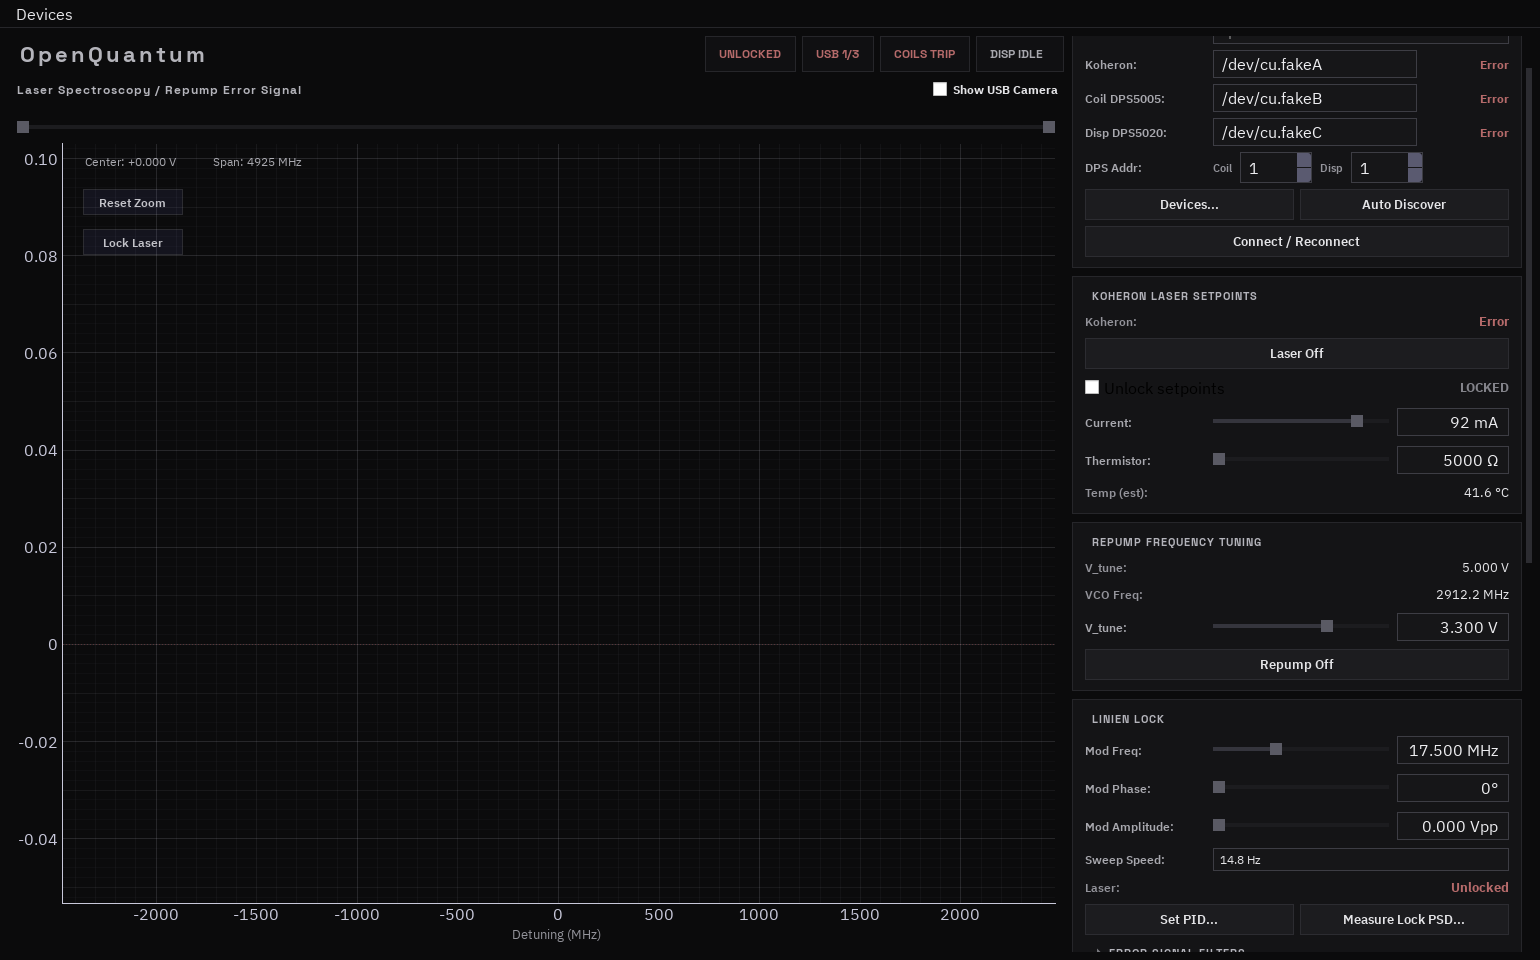
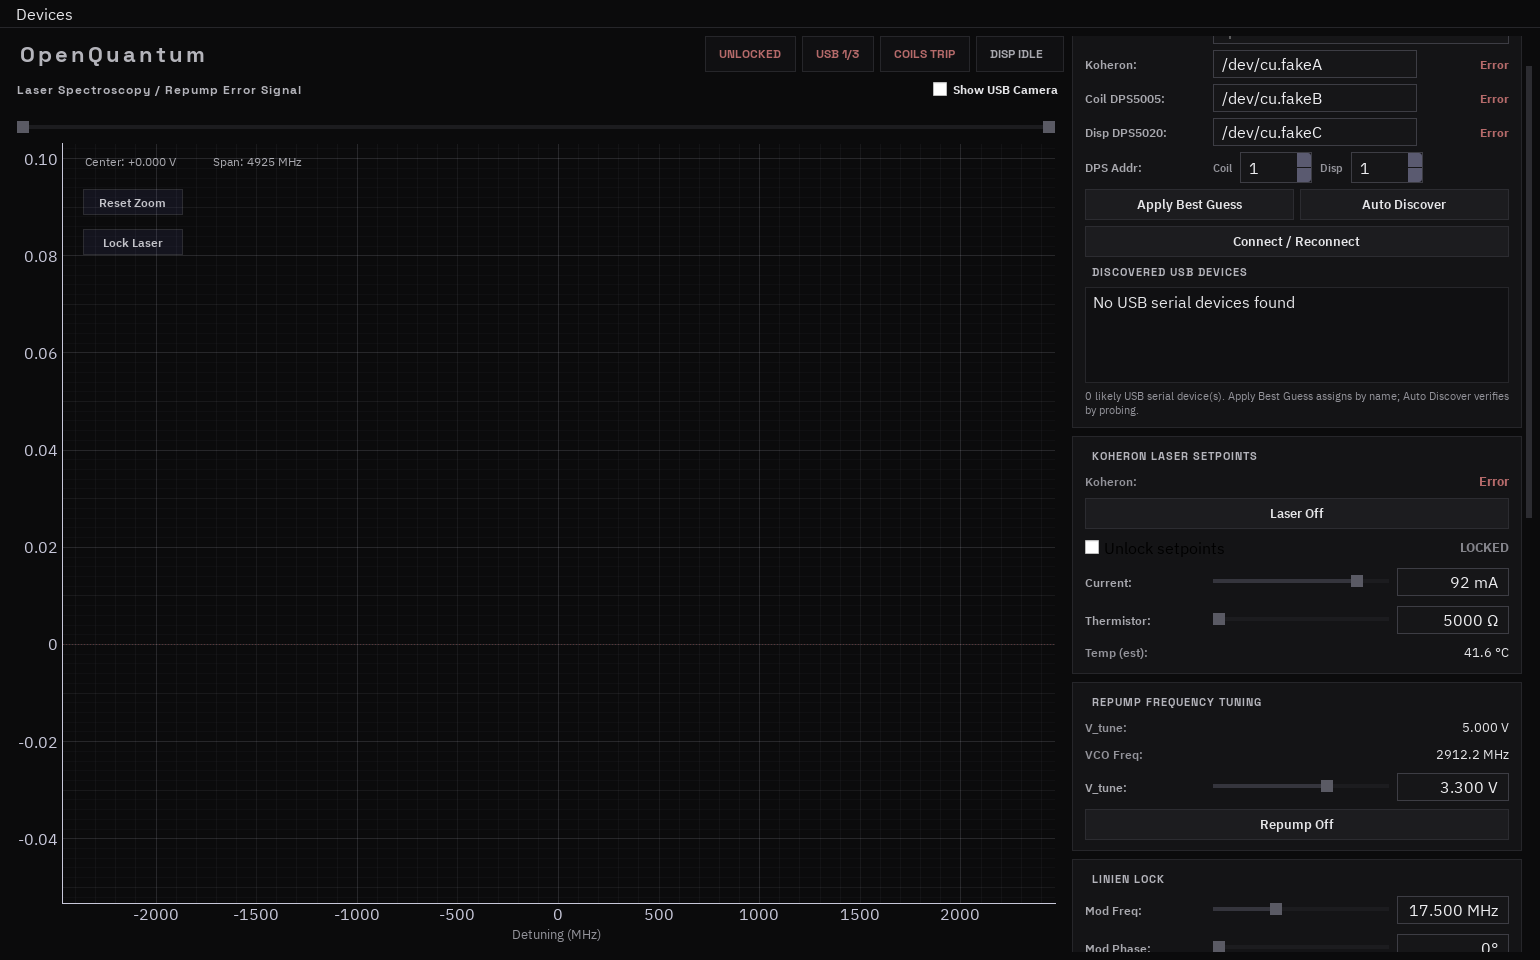
Replace the device config dialog with an inline devices panel
The ports were already inline in the Device Connections card, so the
dialog only added discovery on top of a duplicate set of fields. The
discovered-port list and best-guess assignment move into that card and
the dialog is deleted (117 lines).

The startup pop-up on failed auto-detection is gone too. The card already
expands itself and marks which device is missing, which is the same
information without interrupting.

The menu entry now reveals the card instead of opening a dialog.
smoke_ui.py stubs discover_serial_ports so the panel does not read this
machine's actual ports.

diff --git a/mot_control.py b/mot_control.py
@@ -638,123 +638,6 @@ class CameraViewWidget(QtWidgets.QWidget):
         self.stack.setCurrentWidget(self.message_label)
 
 
-class DeviceConfigDialog(QtWidgets.QDialog):
-    """Manual device config with best-effort USB discovery."""
-
-    def __init__(self, parent):
-        super().__init__(parent)
-        self.setWindowTitle("Device Configuration")
-        self.resize(760, 560)
-        self._parent = parent
-
-        root = QtWidgets.QVBoxLayout(self)
-        root.setSpacing(10)
-
-        splitter = QtWidgets.QSplitter(QtCore.Qt.Horizontal)
-        root.addWidget(splitter, stretch=1)
-
-        form_box = QtWidgets.QWidget()
-        form = QtWidgets.QFormLayout(form_box)
-        form.setLabelAlignment(QtCore.Qt.AlignRight | QtCore.Qt.AlignVCenter)
-        form.setFormAlignment(QtCore.Qt.AlignTop)
-        form.setHorizontalSpacing(12)
-        form.setVerticalSpacing(8)
-
-        self.rp_edit = QtWidgets.QLineEdit(parent.rp_edit.text())
-        self.laser_edit = QtWidgets.QLineEdit(parent.laser_edit.text())
-        self.mot_coil_edit = QtWidgets.QLineEdit(parent.mot_coil_port_edit.text())
-        self.dispenser_edit = QtWidgets.QLineEdit(parent.dispenser_port_edit.text())
-
-        for edit in (
-            self.rp_edit,
-            self.laser_edit,
-            self.mot_coil_edit,
-            self.dispenser_edit,
-        ):
-            edit.setMinimumWidth(250)
-
-        form.addRow("Linien RP:", self.rp_edit)
-        form.addRow("Koheron:", self.laser_edit)
-        form.addRow("MOT Coil DPS5005:", self.mot_coil_edit)
-        form.addRow("Dispenser DPS5020:", self.dispenser_edit)
-
-        splitter.addWidget(form_box)
-
-        discovered_box = QtWidgets.QWidget()
-        discovered_layout = QtWidgets.QVBoxLayout(discovered_box)
-        discovered_layout.setContentsMargins(0, 0, 0, 0)
-        discovered_layout.addWidget(make_section_title("Discovered USB Devices"))
-        self.discovered_list = QtWidgets.QListWidget()
-        self.discovered_list.setStyleSheet(
-            "QListWidget { background: #101012; color: #e4e4e7;"
-            "border: 1px solid #26262a; border-radius: 0px; }"
-            "QListWidget::item { padding: 4px; }"
-        )
-        discovered_layout.addWidget(self.discovered_list, stretch=1)
-        splitter.addWidget(discovered_box)
-        splitter.setSizes([430, 330])
-
-        self.hint_label = QtWidgets.QLabel("")
-        self.hint_label.setWordWrap(True)
-        self.hint_label.setStyleSheet("color: #a8a8ae; border: none;")
-        root.addWidget(self.hint_label)
-
-        button_row = QtWidgets.QHBoxLayout()
-        self.refresh_btn = QtWidgets.QPushButton("Refresh")
-        self.refresh_btn.clicked.connect(self.refresh_discovery)
-        self.best_guess_btn = QtWidgets.QPushButton("Apply Best Guess")
-        self.best_guess_btn.clicked.connect(lambda: self.apply_best_guess(force=True))
-        button_row.addWidget(self.refresh_btn)
-        button_row.addWidget(self.best_guess_btn)
-        button_row.addStretch()
-        self.cancel_btn = QtWidgets.QPushButton("Cancel")
-        self.cancel_btn.clicked.connect(self.reject)
-        self.apply_btn = QtWidgets.QPushButton("Apply")
-        self.apply_btn.clicked.connect(self.accept)
-        button_row.addWidget(self.cancel_btn)
-        button_row.addWidget(self.apply_btn)
-        root.addLayout(button_row)
-
-        self.refresh_discovery()
-
-    def values(self):
-        return {
-            "rp": self.rp_edit.text().strip(),
-            "laser": self.laser_edit.text().strip(),
-            "mot_coil": self.mot_coil_edit.text().strip(),
-            "dispenser": self.dispenser_edit.text().strip(),
-        }
-
-    def refresh_discovery(self):
-        self._serial_ports = discover_serial_ports()
-        self.discovered_list.clear()
-        for port in self._serial_ports:
-            self.discovered_list.addItem(_serial_port_label(port))
-        if not self._serial_ports:
-            self.discovered_list.addItem("No USB serial devices found")
-        self.apply_best_guess(force=False)
-
-    def apply_best_guess(self, force=False):
-        current = {
-            "laser": "" if force else self.laser_edit.text().strip(),
-            "mot_coil": "" if force else self.mot_coil_edit.text().strip(),
-            "dispenser": "" if force else self.dispenser_edit.text().strip(),
-        }
-        guesses = infer_serial_assignments(self._serial_ports, current)
-        if (force or not self.laser_edit.text().strip()) and guesses.get("laser"):
-            self.laser_edit.setText(guesses["laser"])
-        if (force or not self.mot_coil_edit.text().strip()) and guesses.get("mot_coil"):
-            self.mot_coil_edit.setText(guesses["mot_coil"])
-        if (force or not self.dispenser_edit.text().strip()) and guesses.get("dispenser"):
-            self.dispenser_edit.setText(guesses["dispenser"])
-
-        likely_count = len([port for port in self._serial_ports if _is_likely_usb_serial(port)])
-        self.hint_label.setText(
-            f"Found {likely_count} likely USB serial device(s). "
-            "Best guesses fill empty fields only unless you press Apply Best Guess."
-        )
-
-
 class DispenserOverrideDialog(QtWidgets.QDialog):
     """Change the dispenser fire current/duration (confirmed afterwards)."""
 
@@ -1170,9 +1053,11 @@ class OpenQuantumControlsWindow(QtWidgets.QMainWindow):
         """)
         devices_menu = self.menuBar().addMenu("Devices")
 
-        configure_action = QtGui.QAction("Configure Devices...", self)
-        configure_action.triggered.connect(self._open_device_config_dialog)
-        devices_menu.addAction(configure_action)
+        show_devices_action = QtGui.QAction("Show Device Connections", self)
+        show_devices_action.triggered.connect(
+            lambda: self.usb_card.set_expanded(True)
+        )
+        devices_menu.addAction(show_devices_action)
 
         discover_action = QtGui.QAction("Auto Discover USB Devices", self)
         discover_action.triggered.connect(lambda: self._run_usb_probe(startup=False))
@@ -1531,13 +1416,13 @@ class OpenQuantumControlsWindow(QtWidgets.QMainWindow):
 
         button_row = QtWidgets.QHBoxLayout()
         button_row.setSpacing(6)
-        self.device_dialog_btn = QtWidgets.QPushButton("Devices...")
-        self.device_dialog_btn.setCursor(QtCore.Qt.PointingHandCursor)
-        self.device_dialog_btn.clicked.connect(self._open_device_config_dialog)
+        self.best_guess_btn = QtWidgets.QPushButton("Apply Best Guess")
+        self.best_guess_btn.setCursor(QtCore.Qt.PointingHandCursor)
+        self.best_guess_btn.clicked.connect(self._apply_best_guess)
         self._tip(
-            "Open the device configuration dialog (discovered ports,\n"
-            "manual entry).",
-            self.device_dialog_btn,
+            "Assign the discovered ports to devices by name. Overwrites the\n"
+            "fields above; Auto Discover verifies by probing instead.",
+            self.best_guess_btn,
         )
         self.auto_discover_btn = QtWidgets.QPushButton("Auto Discover")
         self.auto_discover_btn.setCursor(QtCore.Qt.PointingHandCursor)
@@ -1550,7 +1435,7 @@ class OpenQuantumControlsWindow(QtWidgets.QMainWindow):
             "workers).",
             self.auto_discover_btn,
         )
-        button_row.addWidget(self.device_dialog_btn)
+        button_row.addWidget(self.best_guess_btn)
         button_row.addWidget(self.auto_discover_btn)
         layout.addLayout(button_row)
 
@@ -1563,7 +1448,57 @@ class OpenQuantumControlsWindow(QtWidgets.QMainWindow):
             self.connect_btn,
         )
         layout.addWidget(self.connect_btn)
+
+        # Discovery lives here rather than in a pop-up: the ports it
+        # informs are the fields directly above it.
+        layout.addWidget(make_section_title("Discovered USB Devices"))
+        self.discovered_list = QtWidgets.QListWidget()
+        self.discovered_list.setFixedHeight(96)
+        self.discovered_list.setStyleSheet(
+            "QListWidget { background: #101012; color: #e4e4e7;"
+            "border: 1px solid #26262a; border-radius: 0px; }"
+            "QListWidget::item { padding: 4px; }"
+        )
+        layout.addWidget(self.discovered_list)
+        self.discovery_hint = QtWidgets.QLabel("")
+        self.discovery_hint.setWordWrap(True)
+        self.discovery_hint.setStyleSheet(
+            "color: #93939a; font-size: 11px; border: none;"
+        )
+        layout.addWidget(self.discovery_hint)
+        self._refresh_discovery()
+
         parent.addWidget(card)
+
+    def _refresh_discovery(self):
+        """Repopulate the discovered-port list. Read-only: enumeration
+        only, no port is opened."""
+        self._serial_ports = discover_serial_ports()
+        self.discovered_list.clear()
+        for port in self._serial_ports:
+            self.discovered_list.addItem(_serial_port_label(port))
+        if not self._serial_ports:
+            self.discovered_list.addItem("No USB serial devices found")
+        likely = len(
+            [p for p in self._serial_ports if _is_likely_usb_serial(p)]
+        )
+        self.discovery_hint.setText(
+            f"{likely} likely USB serial device(s). "
+            "Apply Best Guess assigns by name; Auto Discover verifies by probing."
+        )
+
+    def _apply_best_guess(self):
+        self._refresh_discovery()
+        guesses = infer_serial_assignments(self._serial_ports, {})
+        for key, edit in (
+            ("laser", self.laser_edit),
+            ("mot_coil", self.mot_coil_port_edit),
+            ("dispenser", self.dispenser_port_edit),
+        ):
+            if guesses.get(key):
+                edit.setText(guesses[key])
+        self._save_connection_settings()
+        self._event_log.log("device_ports_guessed", **guesses)
 
     def _add_filter_section(self, parent):
         """Error-signal filters, nested as a collapsible section of the
@@ -2266,8 +2201,9 @@ class OpenQuantumControlsWindow(QtWidgets.QMainWindow):
         self._save_connection_settings()
 
         if startup and not res.get("ok"):
-            # Only interrupt with the pop-up when auto-detection failed.
-            self._open_device_config_dialog()
+            # No pop-up: the Device Connections card expands itself above
+            # and shows which device is missing, in place.
+            self._refresh_discovery()
         self._start_serial_workers()
 
     def _stop_serial_workers(self):
@@ -2287,13 +2223,6 @@ class OpenQuantumControlsWindow(QtWidgets.QMainWindow):
     def _start_serial_workers(self):
         self._start_laser_worker()
         self._start_dps_workers()
-
-    def _open_device_config_dialog(self):
-        dialog = DeviceConfigDialog(self)
-        if dialog.exec() != QtWidgets.QDialog.Accepted:
-            return
-        self._apply_device_values(dialog.values())
-        self._save_connection_settings()
 
     def _apply_device_values(self, values):
         self.rp_edit.setText(values["rp"])

diff --git a/tests/smoke_ui.py b/tests/smoke_ui.py
@@ -32,6 +32,9 @@ import mot_logging
 # real saved QSettings ports/hosts on this machine), log to a temp dir,
 # and use an isolated settings file for EVERY QSettings in the app.
 mot_control.OpenQuantumControlsWindow._deferred_start = lambda self: None
+# Port enumeration is read-only, but it still reads this machine -- stub it
+# so the test and its screenshot do not depend on what is plugged in.
+mot_control.discover_serial_ports = lambda: []
 mot_control.EventLog = lambda _directory: mot_logging.EventLog(LOG_DIR)
 _orig_qsettings = QtCore.QSettings
 
